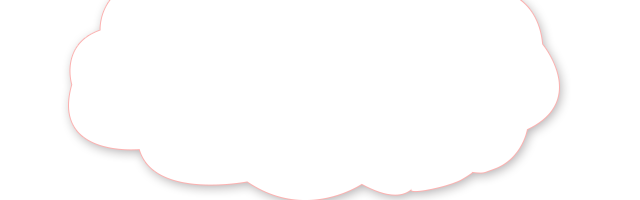
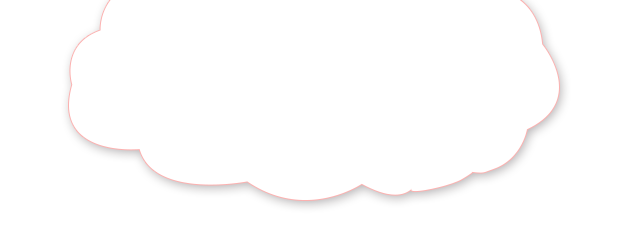
f

diff --git a/css/index.css b/css/index.css
@@ -162,8 +162,8 @@ body {
 .girl-liquid {
     position: absolute;
     display: none;
-    margin-left: -53px;
-    margin-top: -30px;
+    margin-left: -73px;
+    margin-top: -50px;
 }
 .girl-liquid img {
     width: 60%;
